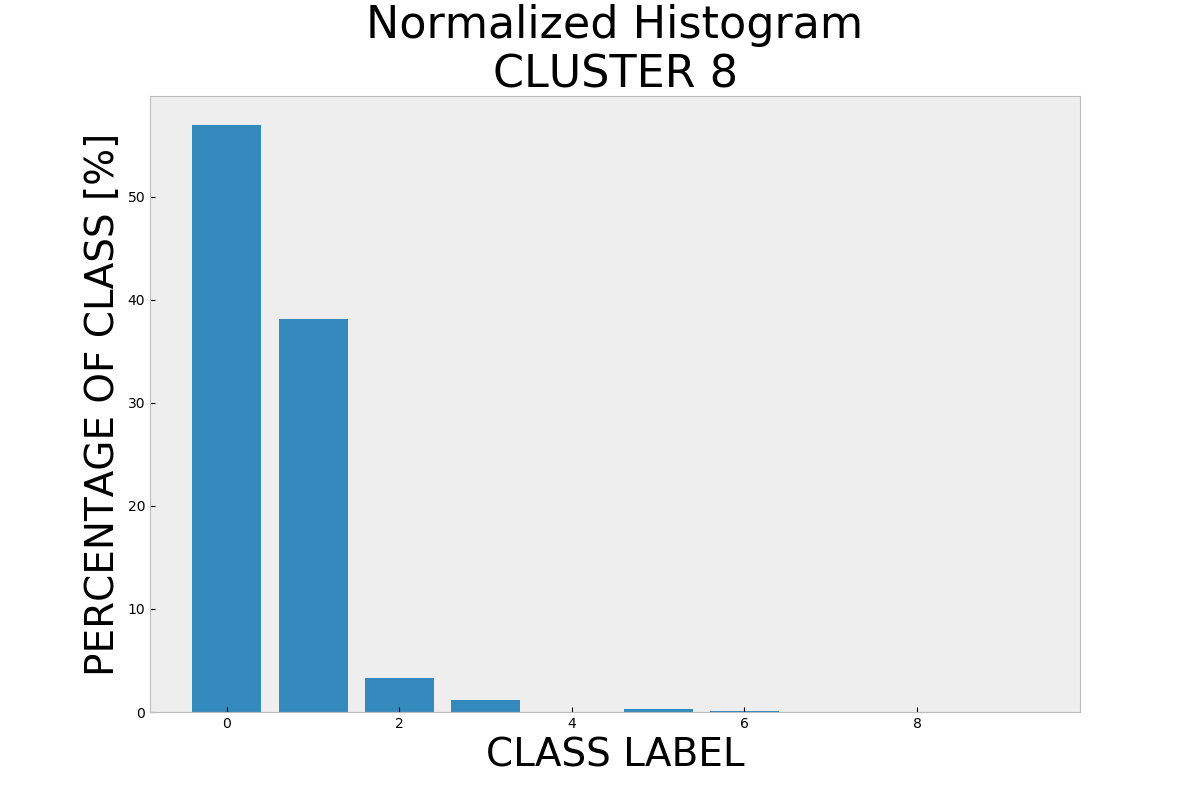
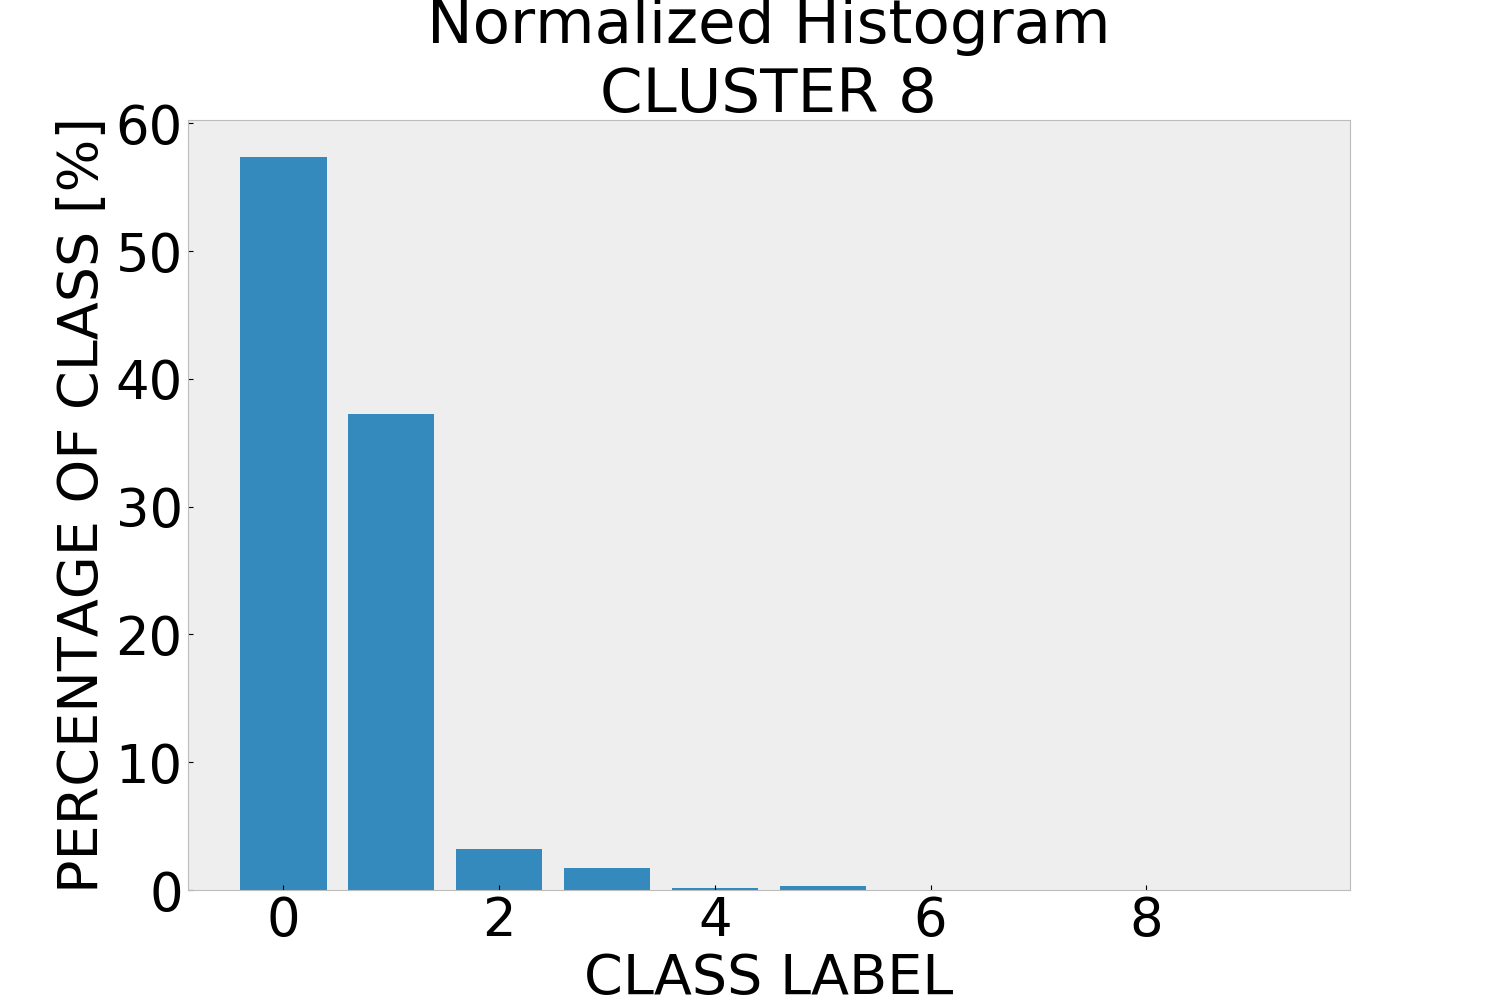
clust+assoc final

diff --git a/Project3/clustering.py b/Project3/clustering.py
@@ -74,10 +74,10 @@ def clustering():
     ####################################################################################################################
     #####################################          GAUSSIAN MIXTURE MODEL          #####################################
     ####################################################################################################################
-    if 1:
+    if 0:
         print("GMM commencing at {0}".format(dt.datetime.now()))
         # Range of K's to try
-        KRange = [20] #range(14, 0, -1)
+        KRange = [18, 19] #range(14, 0, -1)
         T = len(KRange)
 
         covar_type = 'full'  # you can try out 'diag' as well
@@ -126,24 +126,6 @@ def clustering():
 
         # Plot results
 
-        plt.figure(figsize=(12,8))
-        plt.plot(KRange, BIC, '-*b', linewidth=3, markersize=10)
-        plt.plot(KRange, AIC, '-xr', linewidth=3, markersize=10)
-        plt.plot(KRange, 2 * CVE, '-ok', linewidth=3, markersize=10)
-        plt.legend(['BIC', 'AIC', 'Crossvalidation'], fontsize=26)
-        plt.xlabel('Number of components (K)', fontsize=28)
-        plt.title('GMM Model validation', fontsize=32)
-        plt.rc('font', **{'size': '26'})
-        # plt.ticklabel_format(useOffset=False, style='sci', axis='y', size=26)
-        for tick in plt.gca().xaxis.get_major_ticks():
-            tick.label.set_fontsize(26)
-
-        for tick in plt.gca().yaxis.get_major_ticks():
-            tick.label.set_fontsize(26)
-        plt.gca().yaxis.offsetText.set_fontsize(26)
-
-        plt.savefig("GMM_likelihoods_all.png")
-
         plt.figure(figsize=(12, 8))
         plt.plot(KRange[:10], BIC[:10], '-*b', linewidth=3, markersize=10)
         plt.plot(KRange[:10], AIC[:10], '-xr', linewidth=3, markersize=10)
@@ -164,7 +146,7 @@ def clustering():
 
         print("GMM completed at {0}".format(dt.datetime.now()))
 
-    if 0:
+    if 1:
         print("GMM commencing at {0}".format(dt.datetime.now()))
         # Range of K's to try
 
@@ -173,7 +155,7 @@ def clustering():
 
         # K-fold crossvalidation
         CV = model_selection.KFold(n_splits=10, shuffle=True)
-        K=10
+        K=17
         print('Fitting model for K={0}'.format(K))
 
         # Fit Gaussian mixture model
@@ -199,8 +181,8 @@ def clustering():
             cls_gmm = gmm.predict(X_test)
             cls_all_test.extend(cls_gmm)
 
-        print(y_all_test)
-        print(cls_all_test)
+        # print(y_all_test)
+        # print(cls_all_test)
 
         # print("\nMEANS:\n{0}".format(str(gmm_mean)))
         # print("\n\nCOVARIANCE:\n{0}".format(str(gmm_cov)))
@@ -214,15 +196,20 @@ def clustering():
         gmm_distribution = validate_clusters(cls_all_test, y_all_test)
 
         for i in range(len(gmm_distribution)):
-            plt.figure(figsize=(12, 8))
+            plt.figure(figsize=(15, 10))
             hist, bins = np.histogram(gmm_distribution[i], bins=[i for i in range(11)], normed=True)
             print(hist)
             print(bins)
             plt.bar(bins[0:-1], hist*100.0, align="center")
-            plt.title("Normalized Histogram\nCLUSTER " + str(i + 1), fontsize=32)
-            plt.xlabel("CLASS LABEL", fontsize=28)
-            plt.ylabel("PERCENTAGE OF CLASS [%]", fontsize=28)
+            plt.title("Normalized Histogram\nCLUSTER " + str(i + 1), fontsize=44)
+            plt.xlabel("CLASS LABEL", fontsize=40)
+            plt.ylabel("PERCENTAGE OF CLASS [%]", fontsize=40)
             plt.grid()
+            for tick in plt.gca().xaxis.get_major_ticks():
+                tick.label.set_fontsize(38)
+
+            for tick in plt.gca().yaxis.get_major_ticks():
+                tick.label.set_fontsize(38)
             plt.savefig("GMM_CLUSTER_{0}_histogram.png".format(i + 1))
 
         print("GMM completed at {0}".format(dt.datetime.now()))
@@ -243,7 +230,7 @@ def clustering():
         Z = linkage(X, method=Method, metric=Metric)
 
         # Compute and display clusters by thresholding the dendrogram
-        Maxclust = 13
+        Maxclust = 17
         cls = fcluster(Z, criterion='maxclust', t=Maxclust)
         plt.figure()
         clusterplot(X, cls, y=y)
@@ -256,19 +243,22 @@ def clustering():
 
         cluster_distribution = validate_clusters(cls, y)
         for i in range(len(cluster_distribution)):
-            plt.figure(figsize=(12, 8))
+            plt.figure(figsize=(15, 10))
             # print(cluster_distribution[i])
             hist, bins = np.histogram(cluster_distribution[i], bins=[i for i in range(11)], normed=True)
             plt.bar(bins[0:-1], hist * 100.0, align="center")
             # plt.hist(cluster_distribution[i], normed=True)
-            plt.title("Normalized Histogram\nCLUSTER " + str(i+1), fontsize=32)
-            plt.xlabel("CLASS LABEL", fontsize=28)
-            plt.ylabel("PERCENTAGE OF CLASS [%]", fontsize=28)
+            plt.title("Normalized Histogram\nCLUSTER " + str(i+1), fontsize=44)
+            plt.xlabel("CLASS LABEL", fontsize=40)
+            plt.ylabel("PERCENTAGE OF CLASS [%]", fontsize=40)
             plt.grid()
+            for tick in plt.gca().xaxis.get_major_ticks():
+                tick.label.set_fontsize(38)
+
+            for tick in plt.gca().yaxis.get_major_ticks():
+                tick.label.set_fontsize(38)
+
             plt.savefig("CLUSTER_{0}_histogram.png".format(i+1))
-
-
-
 
     # plt.show()
 
